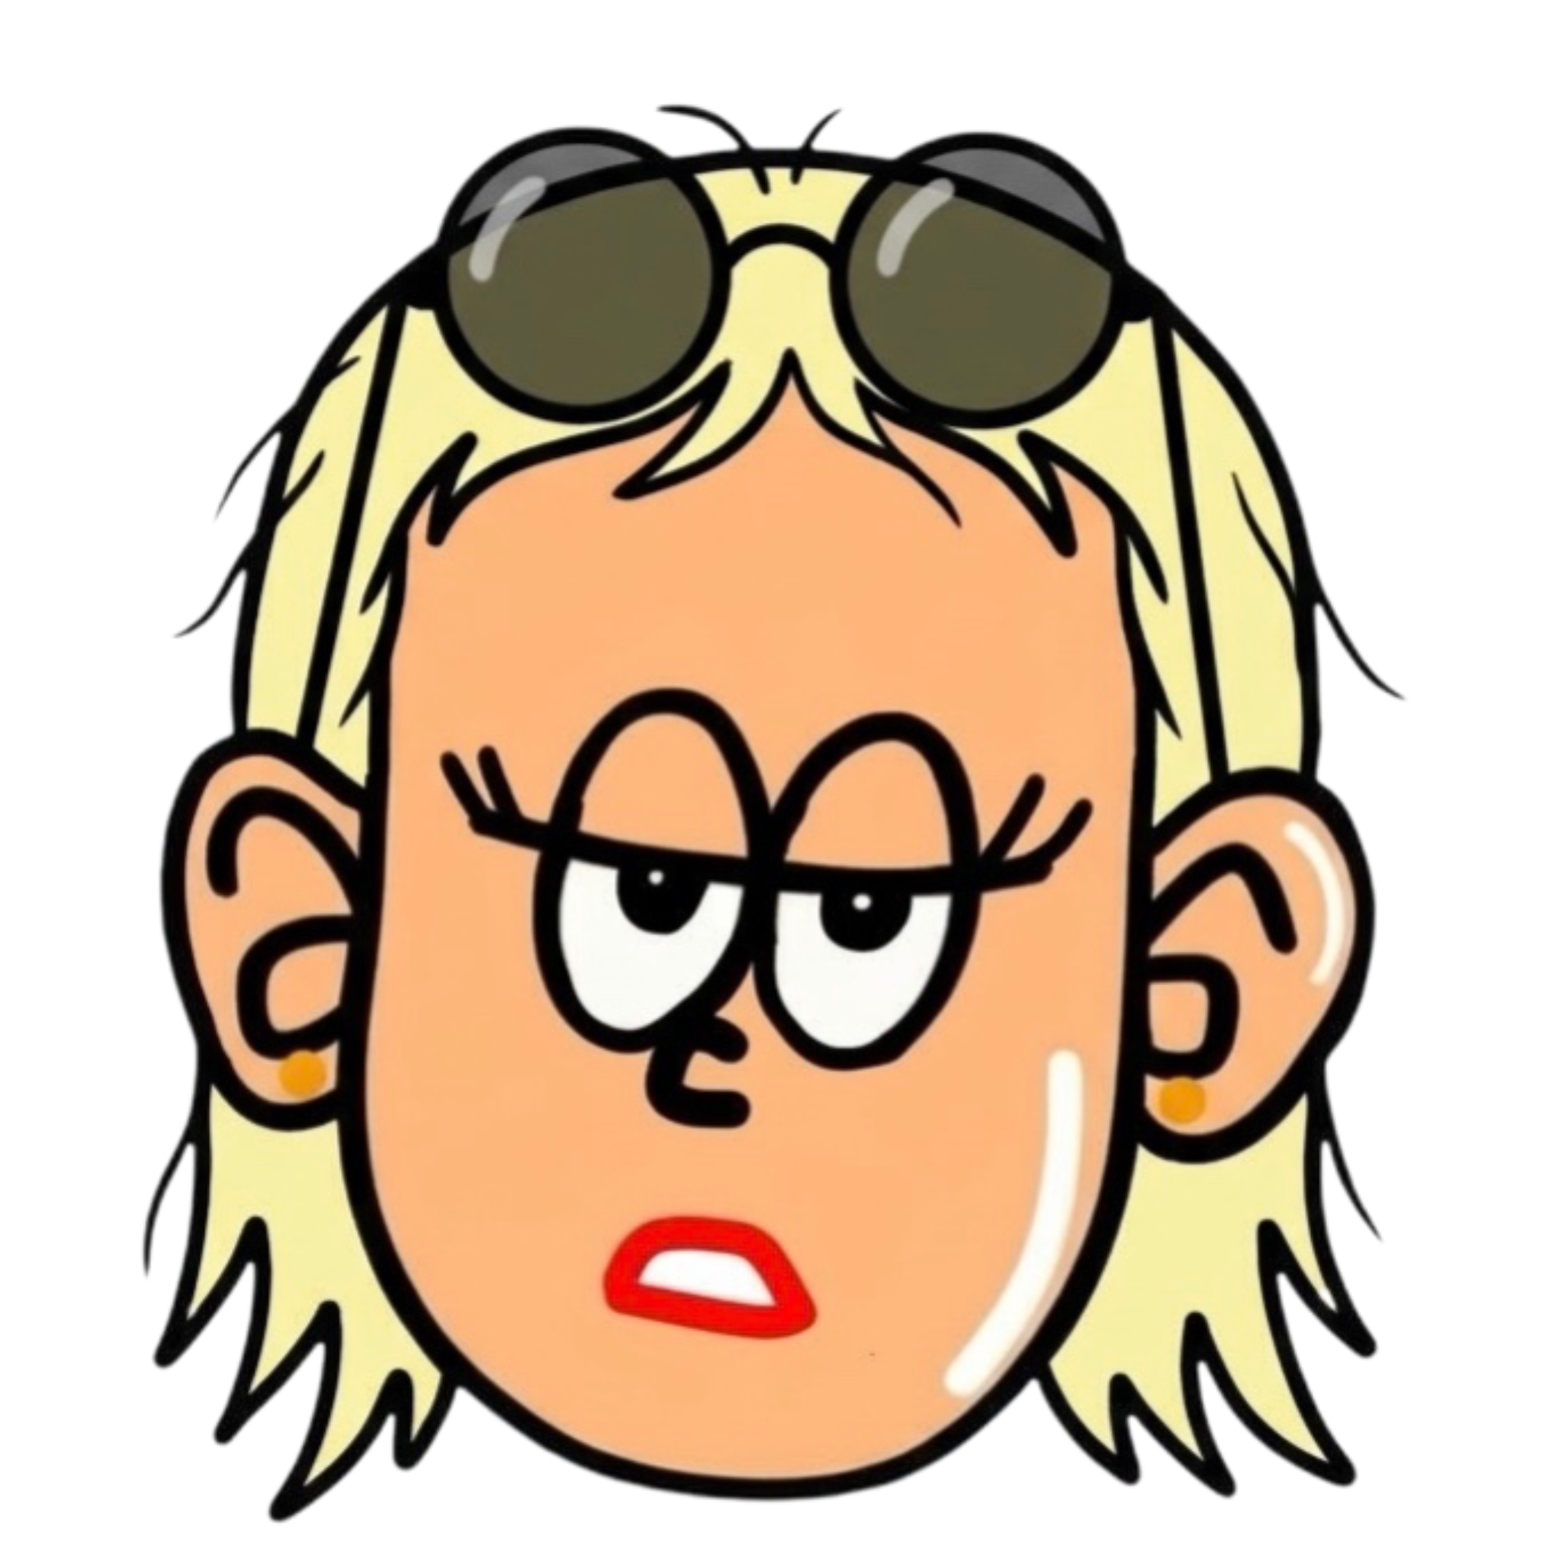
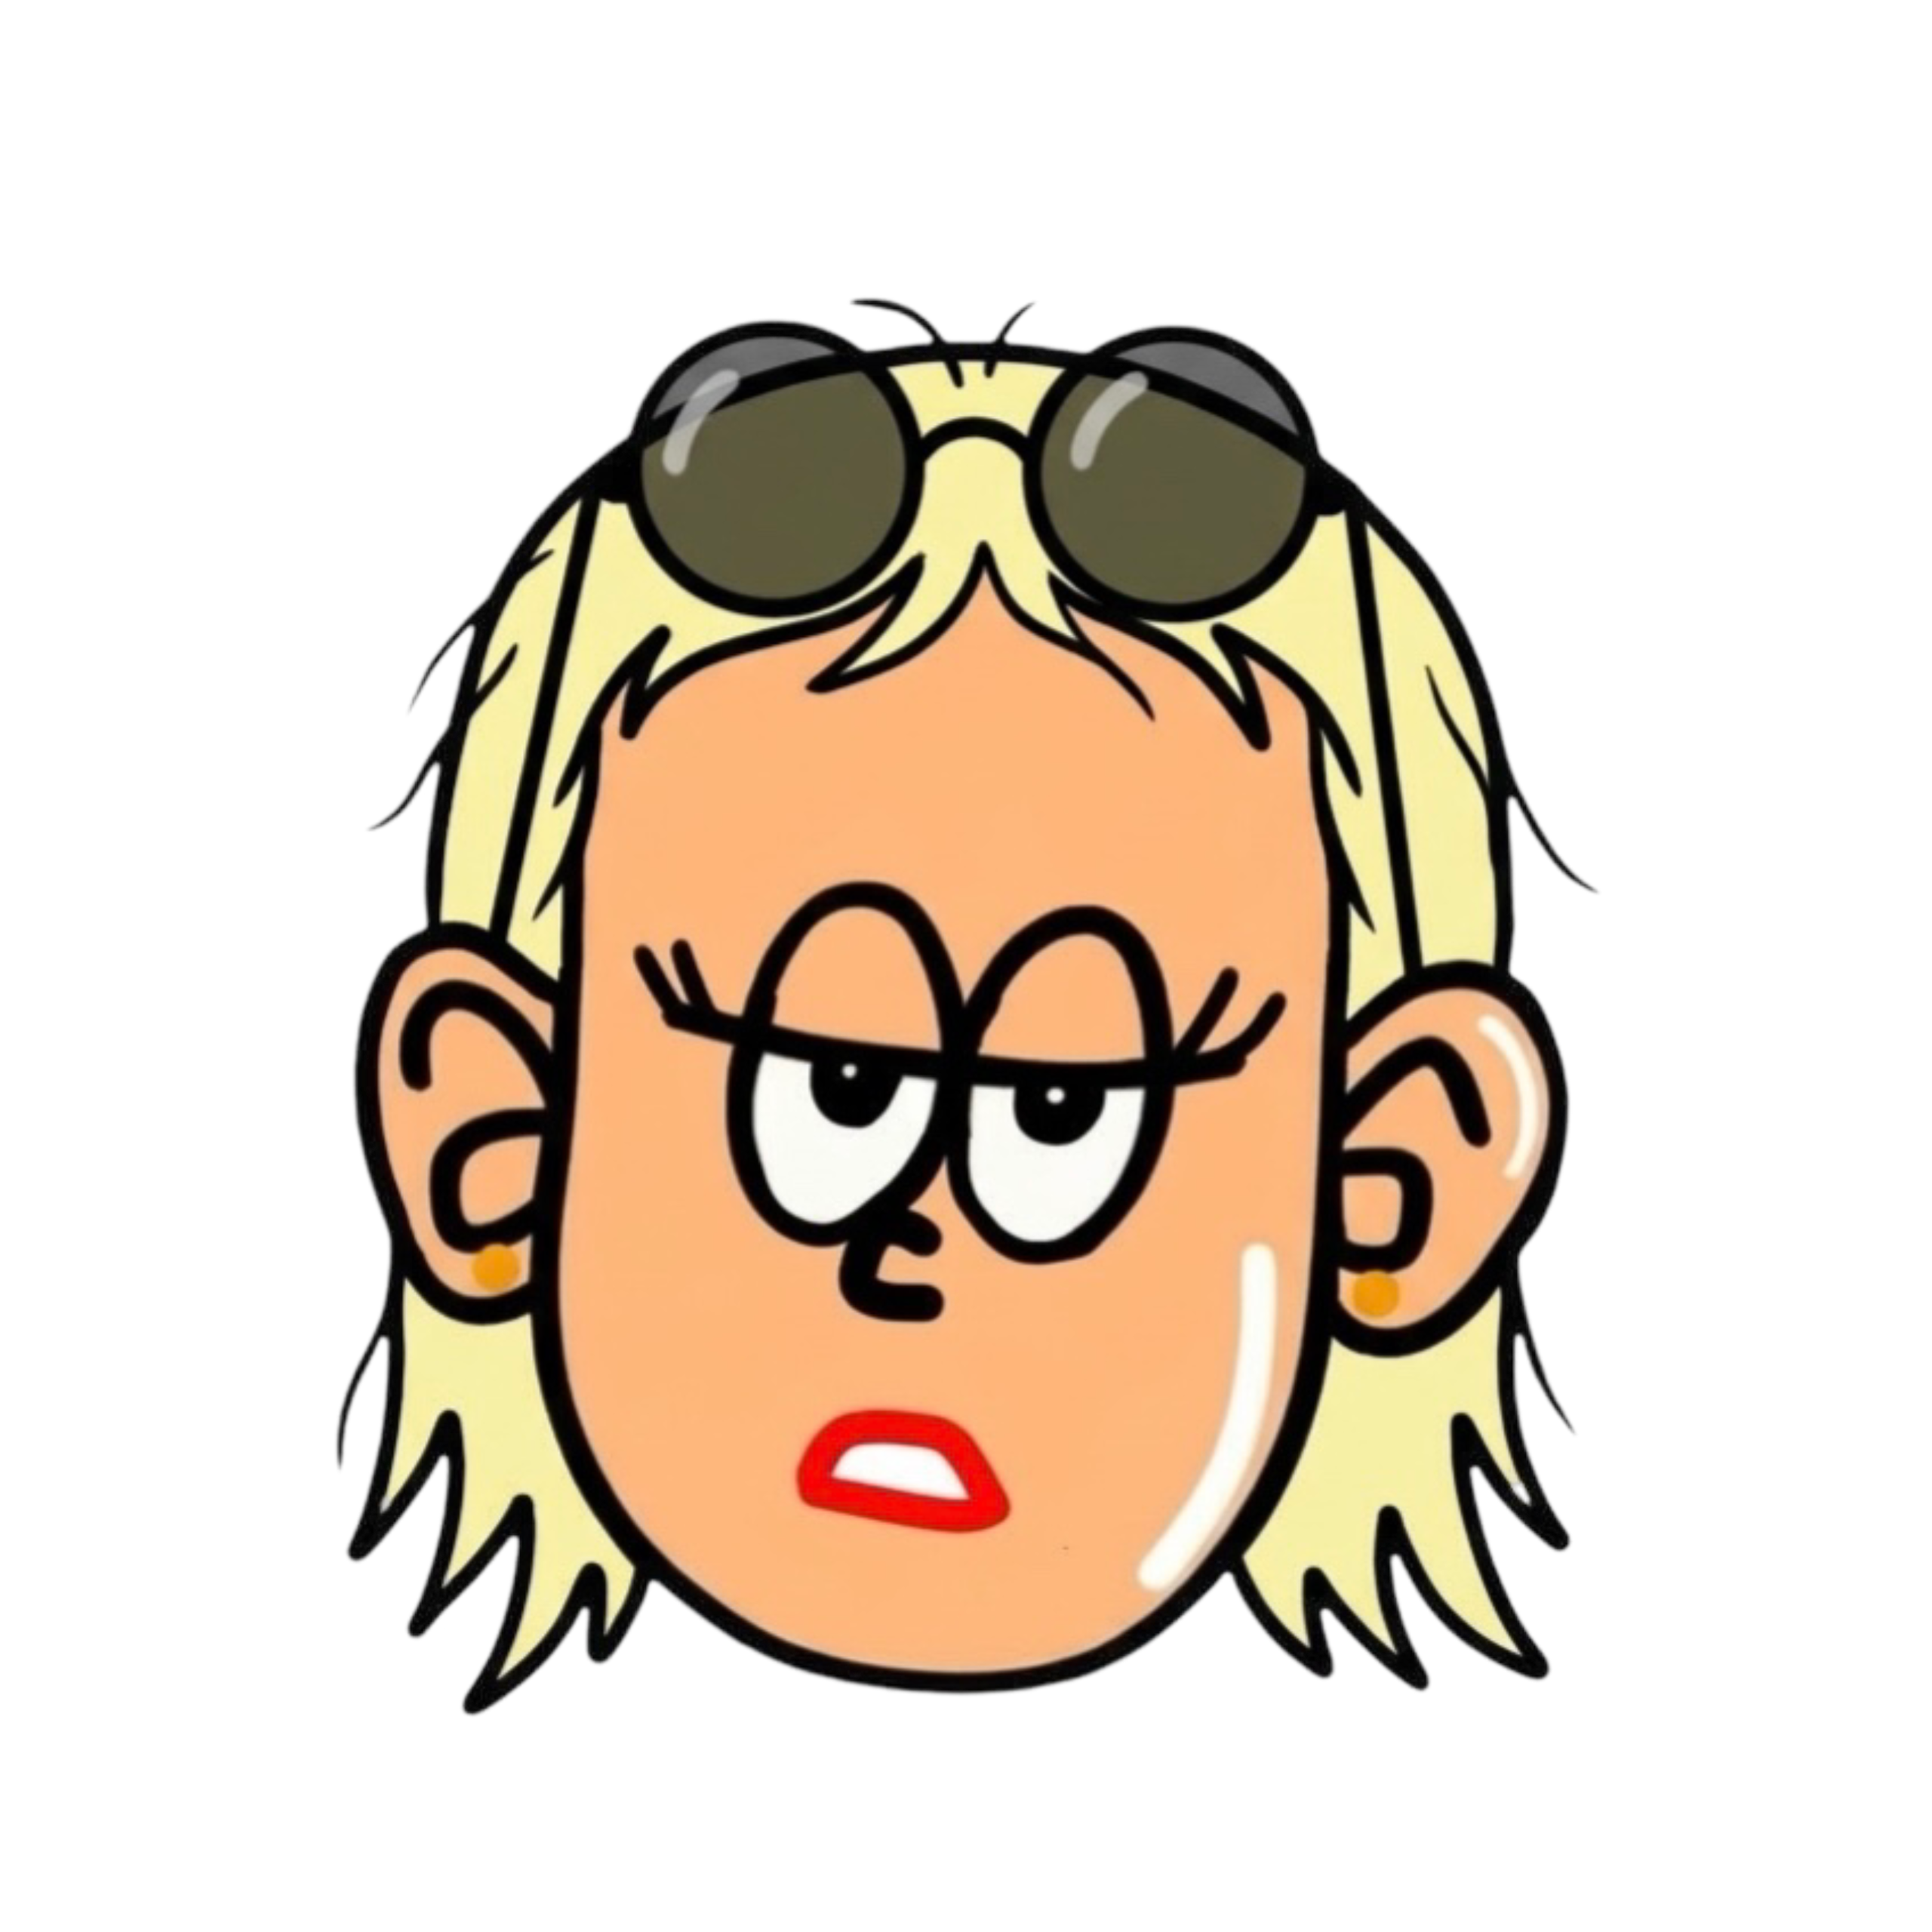
Add transparent padding to character images so faces fit in circle mask
Pad each 2048-square (or 2048x1840 for flekky) source image to a
2560x2560 RGBA canvas with the original centered, leaving 256px of
fully transparent margin on each side. The face originally filled the
image edge-to-edge, so the circular avatar mask kept clipping the chin
and ear edges no matter how object-position or transform-scale were
tuned. With the new transparent breathing room, object-fit: cover into
the 96px circle leaves the entire head safely inside the inscribed
circle.

Revert the .character-icon img rule back to plain
object-fit: cover / object-position: center — the scale/origin hack
is no longer needed.

diff --git a/assets/css/main.scss b/assets/css/main.scss
@@ -636,8 +636,6 @@ img {
       height: 100%;
       object-fit: cover;
       object-position: center;
-      transform: scale(1.3);
-      transform-origin: center 30%;
     }
   }
 
